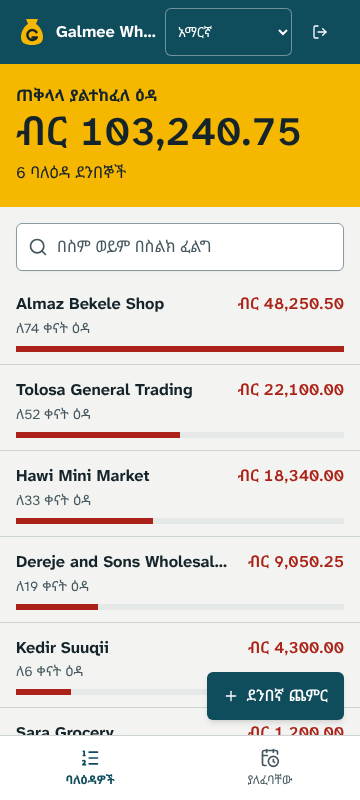
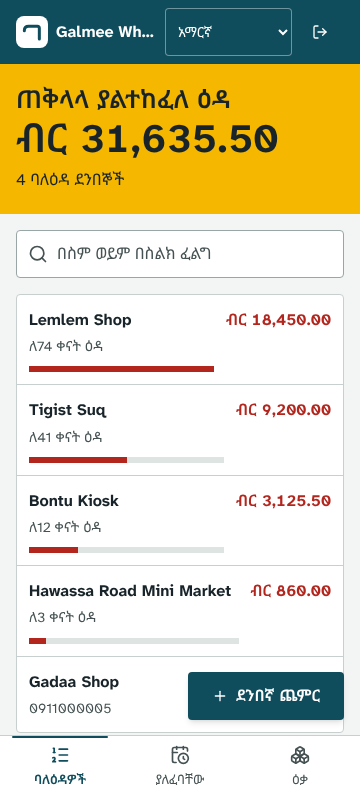
Show the customers-by-amount-owed list on the shared ledger rows and empty state

diff --git a/src/app/[locale]/(app)/customers/page.tsx b/src/app/[locale]/(app)/customers/page.tsx
@@ -1,5 +1,7 @@
 import { getTranslations, setRequestLocale } from "next-intl/server";
-import { Plus, Search } from "lucide-react";
+import { Plus, Search, Users } from "lucide-react";
+import { EmptyState } from "@/components/galmee/empty-state";
+import { ListRow, ListSheet } from "@/components/galmee/list-row";
 import { OwedBar } from "@/components/owed-bar";
 import { Button } from "@/components/ui/button";
 import { Input } from "@/components/ui/input";
@@ -27,7 +29,7 @@ export default async function CustomersPage({ params, searchParams }: PageProps<
   return (
     <div>
       <section className="bg-jerrycan px-4 py-5 text-ink md:rounded-md">
-        <h1 className="text-base font-bold">{t("totalOwed")}</h1>
+        <h1 className="text-[1.5625rem] leading-tight font-bold">{t("totalOwed")}</h1>
         <p className="money mt-1 text-[2.5rem] leading-none break-words">{formatBirr(summary.totalOwed, locale)}</p>
         <p className="mt-2">{t("debtors", { count: summary.debtors })}</p>
       </section>
@@ -49,33 +51,42 @@ export default async function CustomersPage({ params, searchParams }: PageProps<
       </form>
 
       {customers.length === 0 ? (
-        <div className="grid justify-items-start gap-3 px-4 py-8 md:px-0">
-          <p>{query ? t("noMatch", { query }) : t("empty")}</p>
-          {query ? null : (
-            <Button asChild>
-              <Link href="/customers/new">{t("add")}</Link>
-            </Button>
-          )}
-        </div>
+        <EmptyState
+          icon={Users}
+          className="mx-4 mt-4 md:mx-0"
+          message={query ? t("noMatch", { query }) : t("empty")}
+          action={
+            query ? null : (
+              <Button asChild>
+                <Link href="/customers/new">{t("add")}</Link>
+              </Button>
+            )
+          }
+        />
       ) : (
-        <ul className="mt-2 divide-y divide-border">
+        <ListSheet className="mx-4 mt-4 md:mx-0">
           {customers.map((c) => (
-            <li key={c.id}>
-              <Link
-                href={`/customers/${c.id}`}
-                className="grid min-h-16 grid-cols-[minmax(0,1fr)_auto] items-baseline gap-x-3 px-4 py-3 hover:bg-accent md:px-2"
-              >
-                <span className="truncate font-bold">{c.name}</span>
-                <span className={`money whitespace-nowrap ${c.balance > 0 ? "text-owed" : ""}`}>{formatBirr(c.balance, locale)}</span>
-                <span className="truncate text-sm text-muted-foreground">
-                  {c.balance > 0 && c.daysOwing !== null ? t("sinceDays", { days: c.daysOwing }) : c.phone ?? t("settled")}
+            <ListRow
+              key={c.id}
+              href={`/${locale}/customers/${c.id}`}
+              className="hover:bg-band"
+              title={c.name}
+              sub={
+                <>
+                  <span className="truncate">
+                    {c.balance > 0 && c.daysOwing !== null ? t("sinceDays", { days: c.daysOwing }) : c.phone ?? t("settled")}
+                  </span>
+                  <OwedBar value={c.balance} max={biggest} className="mt-1.5" />
+                </>
+              }
+              right={
+                <span className={`money whitespace-nowrap ${c.balance > 0 ? "text-owed" : ""}`}>
+                  {formatBirr(c.balance, locale)}
                 </span>
-                <span />
-                <OwedBar value={c.balance} max={biggest} className="col-span-2 mt-2" />
-              </Link>
-            </li>
+              }
+            />
           ))}
-        </ul>
+        </ListSheet>
       )}
 
       <div className="fixed right-4 bottom-20 z-30 md:static md:mt-6 md:flex md:justify-end">
